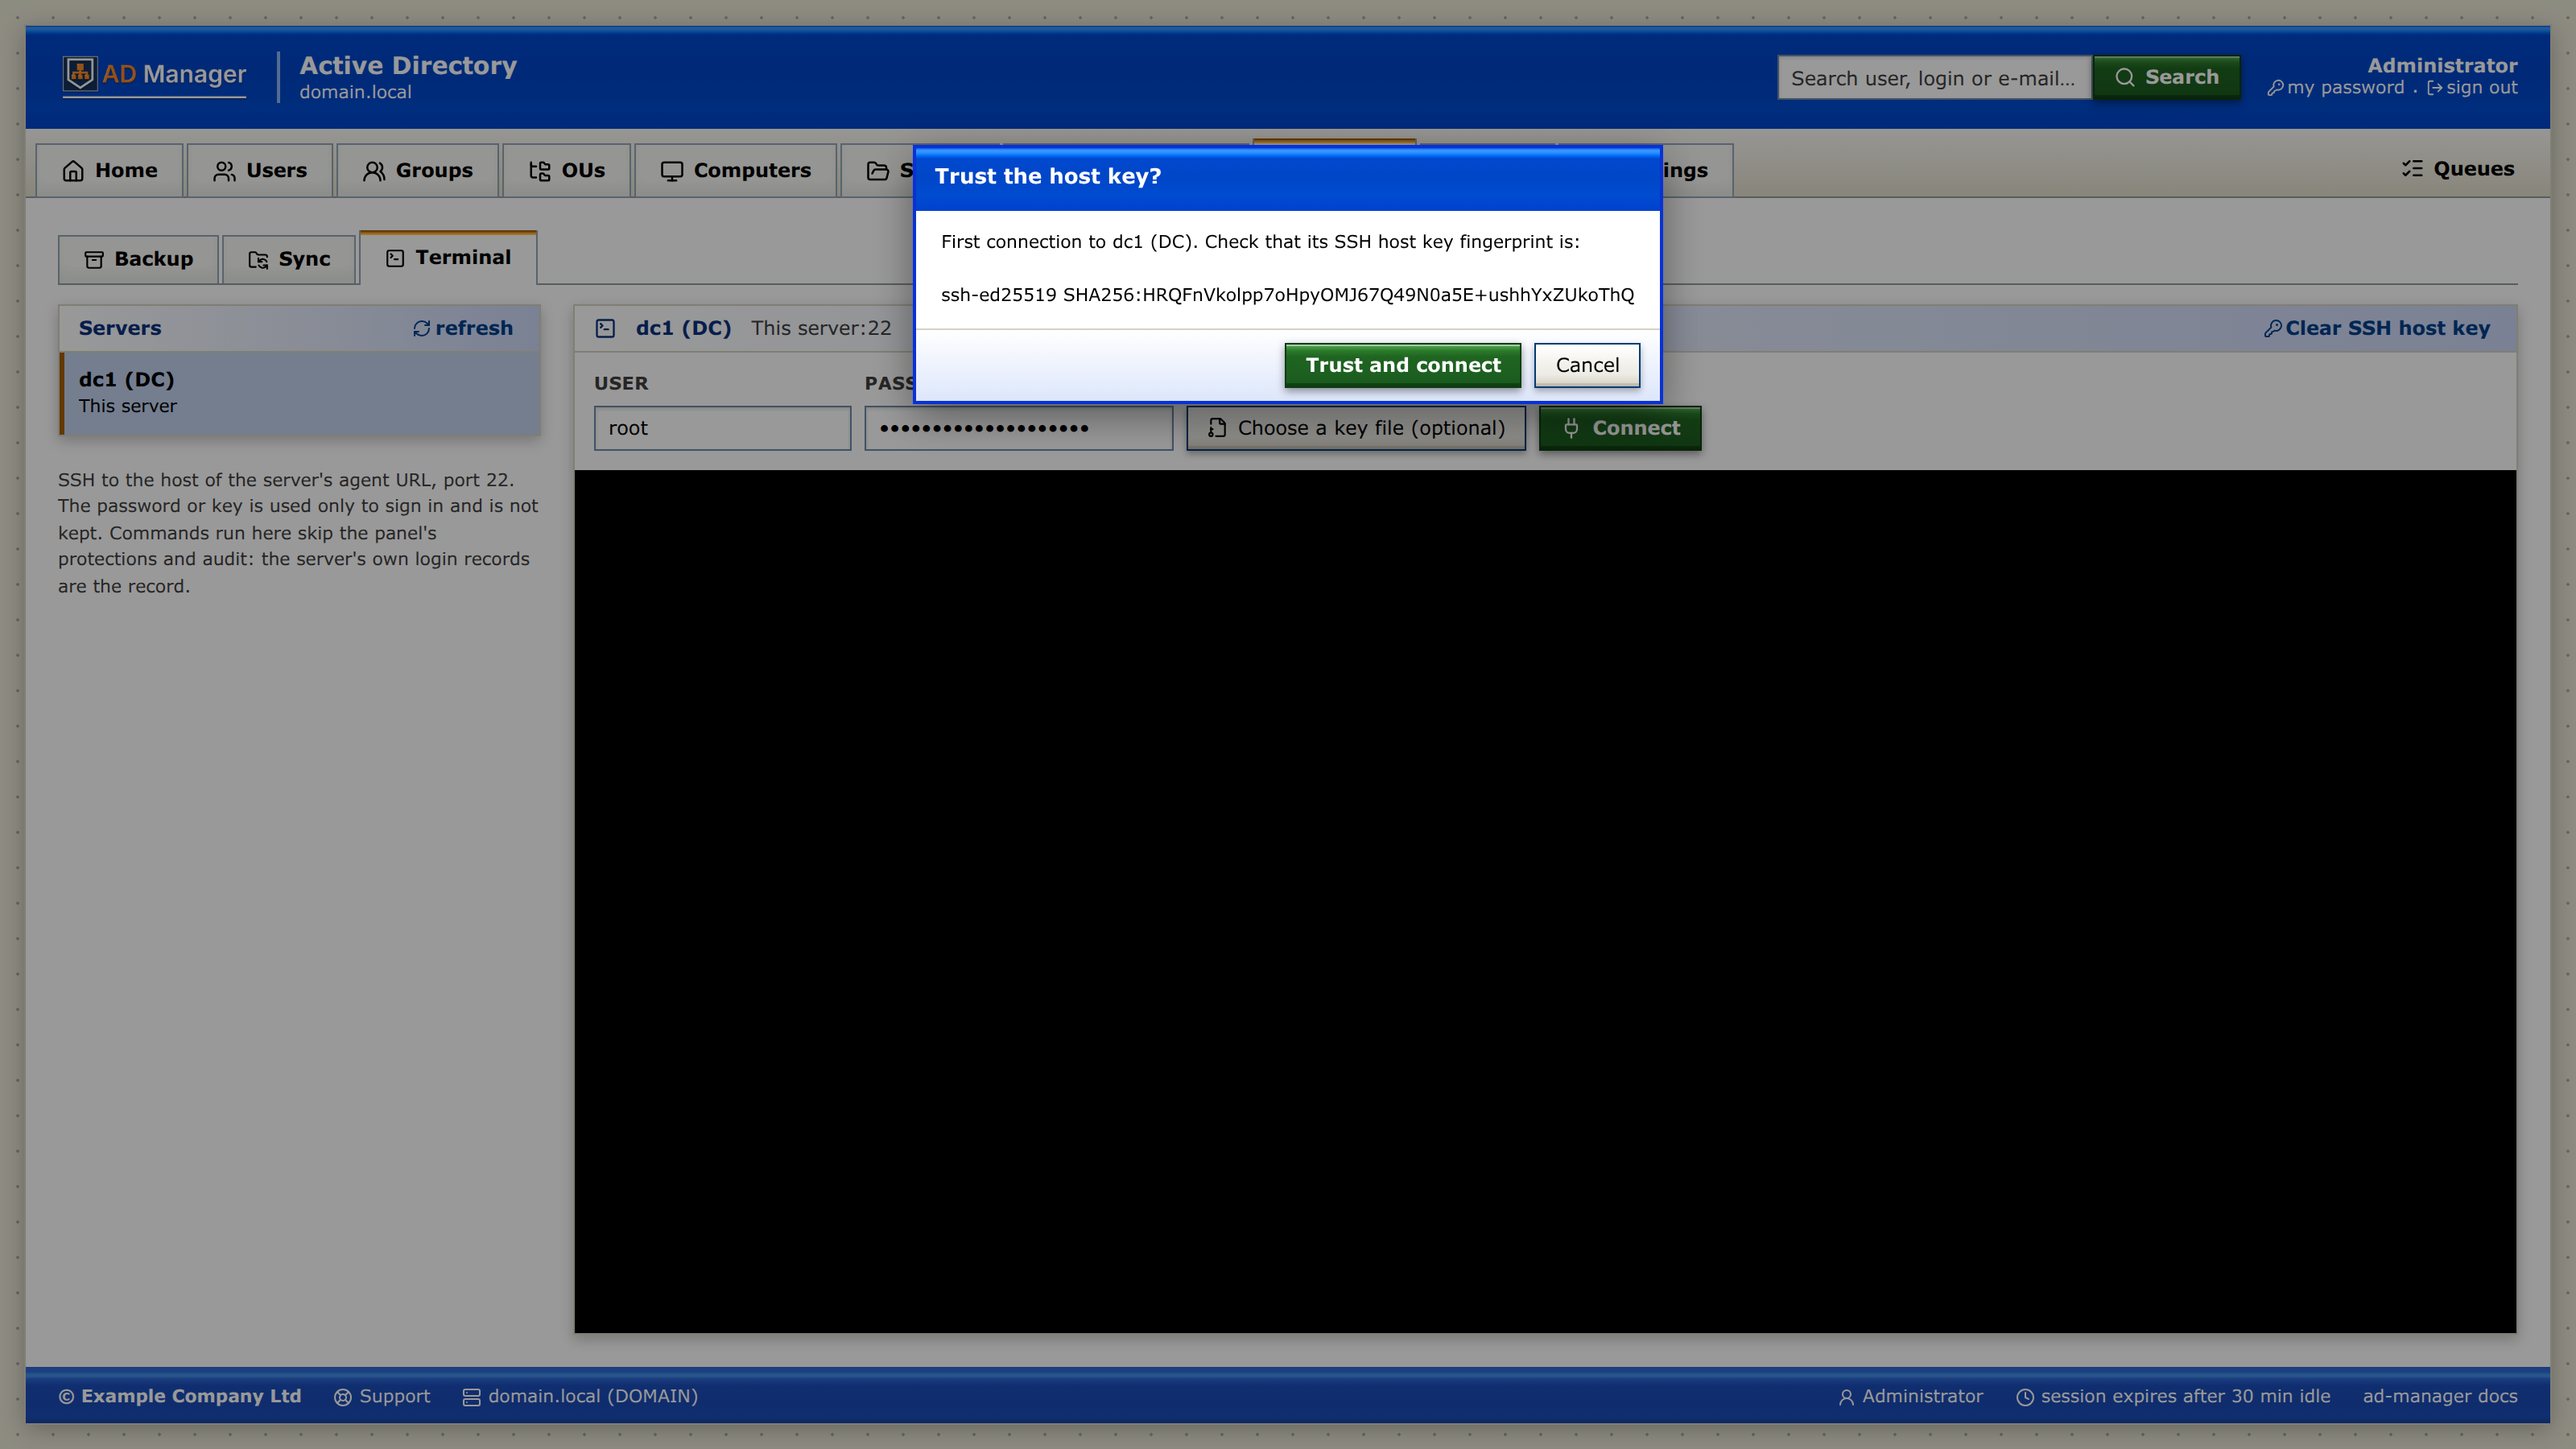
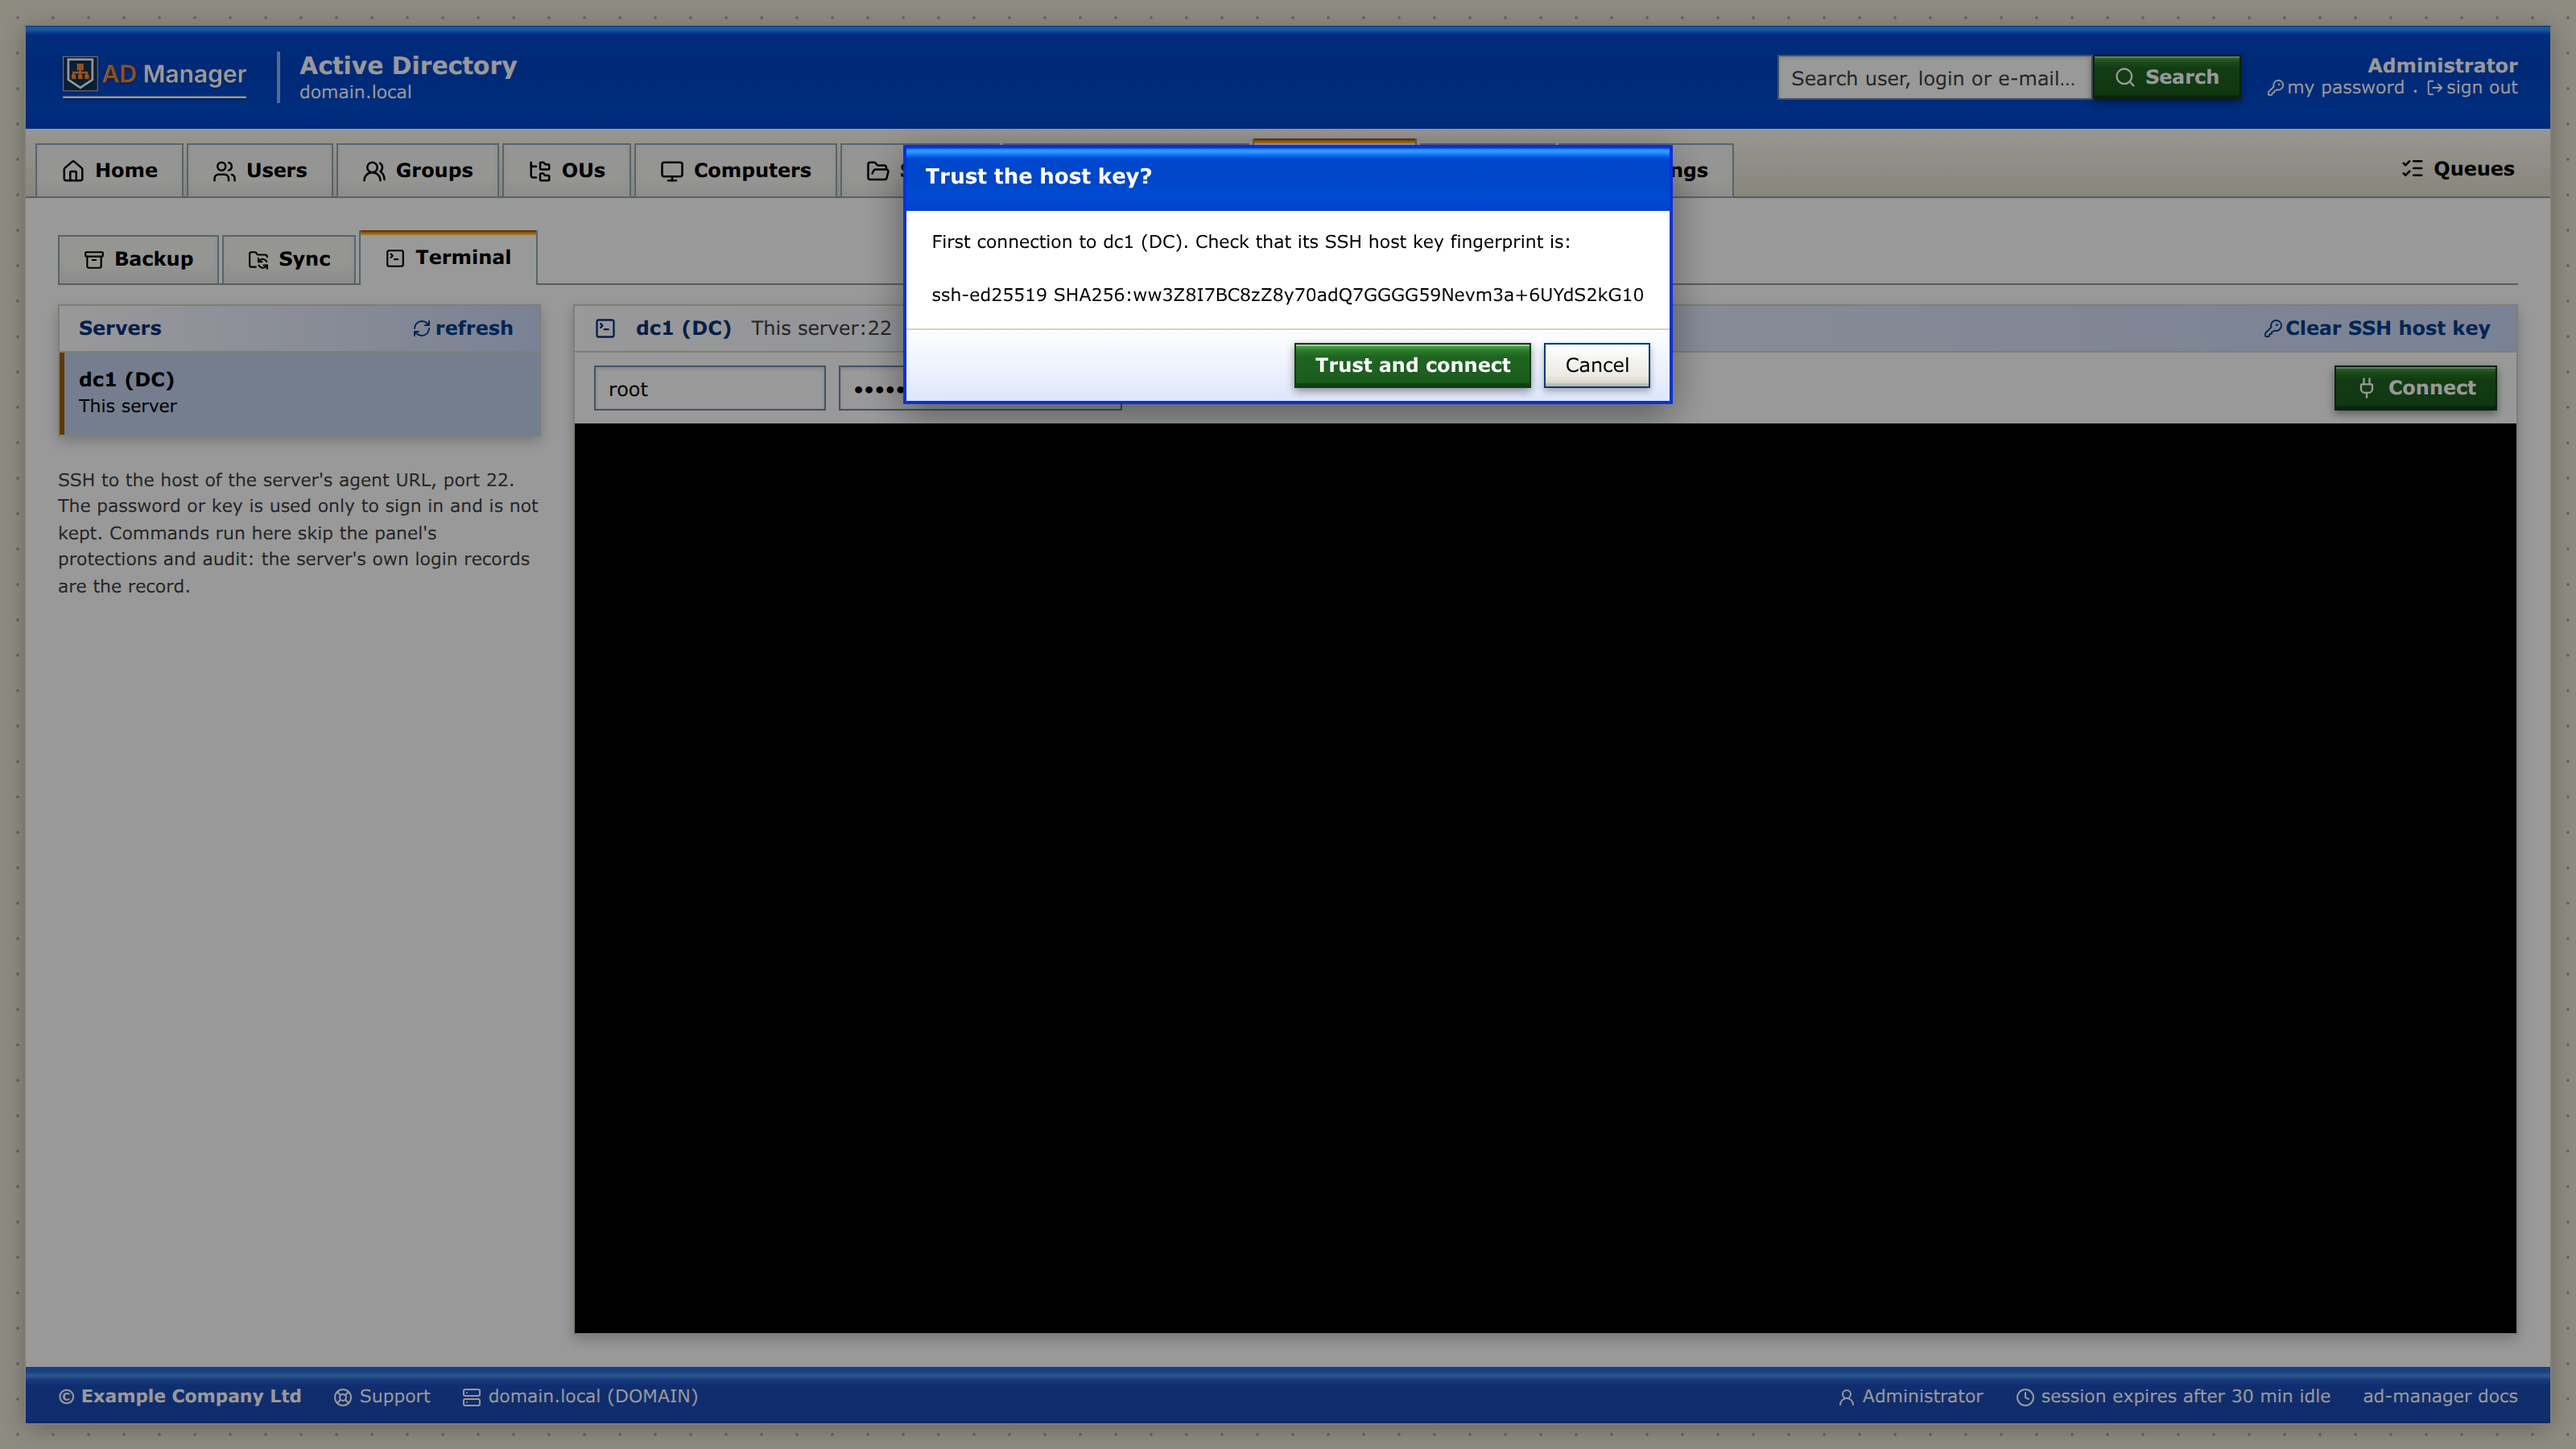
panel: a slimmer SSH terminal layout
- The connect form is one row: placeholders instead of labels (kept for screen
  readers), the key file as a link, a refused or closed connection said beside
  Connect instead of on a line of its own.
- Connected, the card's header holds the status (`· Connected as root`) and
  Disconnect, so the terminal gets the height.
- Screenshots 34-terminal and 35-terminal-hostkey retaken; CHANGELOG.

Changed region(s): [[0.2188, 0.0933, 1.0, 0.3422]]

diff --git a/frontend/src/pages/Terminal.vue b/frontend/src/pages/Terminal.vue
@@ -231,45 +231,51 @@ load()
       <section v-if="current()" class="card flex min-h-0 flex-col">
         <div class="card-h flex items-center gap-3">
           <SquareTerminal :size="14" /> {{ current().name }}
-          <span class="font-normal normal-case text-fg-muted">{{ agentHost(current().url) }}:22</span>
-          <button class="act ml-auto normal-case" :disabled="state !== 'idle'" @click="resetKey">
+          <span class="font-normal normal-case text-fg-muted">
+            {{ agentHost(current().url) }}:22<template v-if="state === 'open'">
+              · {{ t('Connected as {user}', { user: form.user }) }}</template
+            >
+          </span>
+          <!-- connected: the header is the whole bar, so the terminal gets the height -->
+          <button v-if="state === 'open'" class="act ml-auto normal-case" @click="disconnect">
+            <Unplug :size="12" /> {{ t('Disconnect') }}
+          </button>
+          <button v-else class="act ml-auto normal-case" :disabled="state !== 'idle'" @click="resetKey">
             <KeyRound :size="12" /> {{ t('Clear SSH host key') }}
           </button>
         </div>
-        <form v-if="state !== 'open'" class="flex flex-wrap items-end gap-2 p-3" @submit.prevent="connect()">
-          <div>
-            <label class="lbl" for="t-user">{{ t('User') }}</label>
-            <input id="t-user" v-model.trim="form.user" class="inp w-40" autocomplete="off" required />
-          </div>
-          <div>
-            <label class="lbl" for="t-pass">{{ t('Password') }}</label>
-            <input id="t-pass" v-model="form.password" type="password" class="inp w-48" autocomplete="off" />
-          </div>
-          <div>
-            <span class="lbl">{{ t('Private key') }}</span>
-            <!-- the panel's own button, not the browser's file field (aligned with the inputs, translated) -->
-            <input ref="keyInput" type="file" class="hidden" @change="pickKey" />
-            <span v-if="form.keyName" class="flex items-center gap-2">
-              <span class="tag bg-surface-2">{{ form.keyName }}</span>
-              <button type="button" class="act" @click="clearKey">{{ t('remove') }}</button>
-            </span>
-            <button v-else type="button" class="btn-ghost" @click="keyInput.click()">
-              <FileKey :size="13" /> {{ t('Choose a key file (optional)') }}
-            </button>
-          </div>
-          <div v-if="form.keyName">
-            <label class="lbl" for="t-phrase">{{ t('Passphrase') }}</label>
-            <input id="t-phrase" v-model="form.passphrase" type="password" class="inp w-40" autocomplete="off" />
-          </div>
-          <button class="btn" :disabled="state !== 'idle' || !form.user || (!form.password && !form.key)">
-            <Plug :size="14" /> {{ state === 'connecting' ? t('Connecting…') : t('Connect') }}
+        <!-- one slim row: the labels are for screen readers, the placeholders say what goes where -->
+        <form v-if="state !== 'open'" class="flex flex-wrap items-center gap-2 px-3 py-2" @submit.prevent="connect()">
+          <label class="sr-only" for="t-user">{{ t('User') }}</label>
+          <input id="t-user" v-model.trim="form.user" class="inp w-36" :placeholder="t('User')" autocomplete="off" required />
+          <label class="sr-only" for="t-pass">{{ t('Password') }}</label>
+          <input id="t-pass" v-model="form.password" type="password" class="inp w-44" :placeholder="t('Password')" autocomplete="off" />
+          <!-- the panel's own button, not the browser's file field (aligned with the inputs, translated) -->
+          <input ref="keyInput" type="file" class="hidden" @change="pickKey" />
+          <template v-if="form.keyName">
+            <span class="tag bg-surface-2" :title="t('Private key')">{{ form.keyName }}</span>
+            <button type="button" class="act" @click="clearKey">{{ t('remove') }}</button>
+            <label class="sr-only" for="t-phrase">{{ t('Passphrase') }}</label>
+            <input
+              id="t-phrase"
+              v-model="form.passphrase"
+              type="password"
+              class="inp w-36"
+              :placeholder="t('Passphrase')"
+              autocomplete="off"
+            />
+          </template>
+          <button v-else type="button" class="act normal-case" @click="keyInput.click()">
+            <FileKey :size="12" /> {{ t('Choose a key file (optional)') }}
           </button>
+          <!-- the last outcome (refused, closed) on the same row, beside Connect -->
+          <span class="ml-auto flex min-w-0 items-center gap-3">
+            <span v-if="error" class="truncate text-err" role="alert" :title="error">{{ error }}</span>
+            <button class="btn shrink-0" :disabled="state !== 'idle' || !form.user || (!form.password && !form.key)">
+              <Plug :size="14" /> {{ state === 'connecting' ? t('Connecting…') : t('Connect') }}
+            </button>
+          </span>
         </form>
-        <div v-else class="flex items-center gap-2 p-3">
-          <span class="text-fg-muted">{{ t('Connected as {user}', { user: form.user }) }}</span>
-          <button class="btn-ghost ml-auto" @click="disconnect"><Unplug :size="14" /> {{ t('Disconnect') }}</button>
-        </div>
-        <p v-if="error" class="px-3 pb-2 text-err" role="alert">{{ error }}</p>
         <div class="term-box min-h-[320px] flex-1">
           <div ref="termEl" class="h-full w-full" data-testid="terminal"></div>
         </div>

diff --git a/CHANGELOG.md b/CHANGELOG.md
@@ -5,7 +5,10 @@ All notable changes to this project are documented here. The format follows
 
 ## [Unreleased]
 
-—
+### Changed
+- SSH terminal: a slimmer layout — the connect form is one row (placeholders instead of labels, the key file as a
+  link, a refused or closed connection said beside Connect), and once connected the card's header holds the
+  status and Disconnect, leaving the height to the terminal.
 
 ## [0.29.0] — 2026-11-01
 
